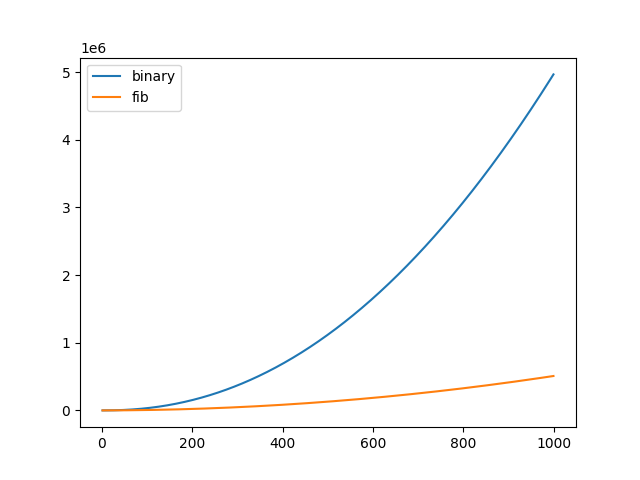
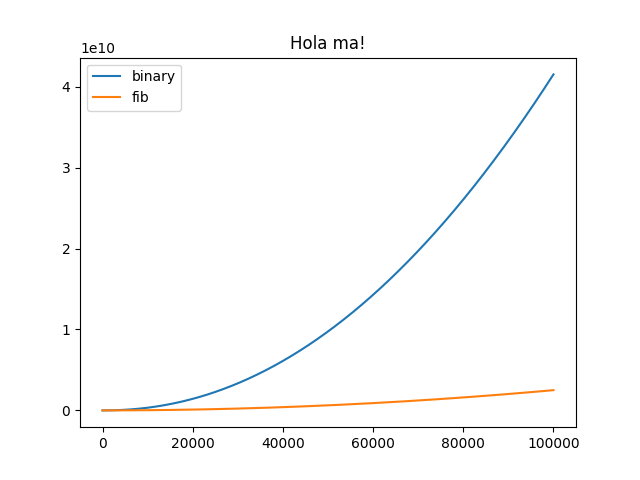
session 16/11

diff --git a/T2/test/test_fibonacci_heap.py b/T2/test/test_fibonacci_heap.py
@@ -1,0 +1,95 @@
+import unittest
+from src.priorityQueue import FibonacciHeap
+from src.trees import BinomNode
+'''
+class FibonacciHeapTestCase(unittest.TestCase):
+
+    def setUp(self):
+        self.heap = FibonacciHeap(20)
+
+    def _assert_equal_trees(self, tree_1, tree_2):
+        self._assert_equal_nodes(tree_1, tree_2)
+        for i in range(len(tree_1.children)):
+            self._assert_equal_trees(tree_1.children[i], tree_2.children[i])
+    
+    def _assert_equal_nodes(self, node_1, node_2):
+        self.assertEqual(node_1.element, node_2.element)
+        self.assertEqual(node_1.key, node_2.key)
+        self.assertEqual(node_1.degree, node_2.degree)
+    
+    def _assert_equal_heaps(self, heap_1, heap_2):
+        self.assertEqual(heap_1.queue_length, heap_2.queue_length)
+        self.assertEqual(heap_1.min_element, heap_2.min_element)
+        self.assertEqual(heap_1.min_key, heap_2.min_key)
+        self.assertEqual(heap_1.min_pos, heap_2.min_pos)
+        self.assertEqual(heap_1.current_elements, heap_2.current_elements)
+        for i in len(heap_1.queue):
+            self._assert_equal_trees(heap_1.queue[i], heap_2.queue[i])
+        for i in len(heap_1.elements_in_order):
+            self._assert_equal_nodes(heap_1.elements_in_order[i], heap_2.elements_in_order[i])
+    
+    def test_initial_conditions(self):
+        self.assertEqual(self.heap.queue, [])
+        self.assertEqual(self.heap.queue_length, 0)
+        self.assertEqual(self.heap.elements_in_order, [None] * 20)
+
+    def test_insert(self):
+        self.heap.insert(1, 5)
+        self._assert_equal_node_arrays(self.heap.tree, [BMinHeapNode(1, 5, 0)])
+        self.assertEqual(self.heap.tree[0], self.heap.elements_in_order[0])
+        self.assertEqual(self.heap.n, 1)
+        self.heap.insert(10, 3)
+        self._assert_equal_node_arrays(self.heap.tree, [BMinHeapNode(10, 3, 0), BMinHeapNode(1, 5, 1)])
+        self.assertEqual(self.heap.tree[1], self.heap.elements_in_order[0])
+        self.assertEqual(self.heap.tree[0], self.heap.elements_in_order[9])
+        self.assertEqual(self.heap.n, 2)
+        self.heap.insert(15, 7)
+        self._assert_equal_node_arrays(self.heap.tree, [BMinHeapNode(10, 3, 0), BMinHeapNode(1, 5, 1), BMinHeapNode(15, 7, 2)])
+        self.assertEqual(self.heap.tree[1], self.heap.elements_in_order[0])
+        self.assertEqual(self.heap.tree[0], self.heap.elements_in_order[9])
+        self.assertEqual(self.heap.tree[2], self.heap.elements_in_order[14])
+        self.assertEqual(self.heap.n, 3)
+        self.heap.insert(2, 4)
+        self._assert_equal_node_arrays(self.heap.tree, [BMinHeapNode(10, 3, 0), BMinHeapNode(2, 4, 1), BMinHeapNode(15, 7, 2), BMinHeapNode(1, 5, 3)])
+        self.assertEqual(self.heap.tree[1], self.heap.elements_in_order[1])
+        self.assertEqual(self.heap.tree[0], self.heap.elements_in_order[9])
+        self.assertEqual(self.heap.tree[2], self.heap.elements_in_order[14])
+        self.assertEqual(self.heap.tree[3], self.heap.elements_in_order[0])
+        self.assertEqual(self.heap.n, 4)
+    
+    def test_decrease_key(self):
+        self.heap.insert(1, 5)
+        self.heap.insert(10, 3)
+        self.heap.insert(15, 7)
+        self.heap.insert(2, 4)
+        self.heap.decrease_key(1, 2)
+        self._assert_equal_node_arrays(self.heap.tree, [BMinHeapNode(1, 2, 0), BMinHeapNode(10, 3, 1), BMinHeapNode(15, 7, 2), BMinHeapNode(2, 4, 3)])
+        self.assertEqual(self.heap.tree[0], self.heap.elements_in_order[0])
+        self.assertEqual(self.heap.n, 4)
+        self.heap.decrease_key(15, 8)
+        self._assert_equal_node_arrays(self.heap.tree, [BMinHeapNode(1, 2, 0), BMinHeapNode(10, 3, 1), BMinHeapNode(15, 7, 2), BMinHeapNode(2, 4, 3)])
+        self.assertEqual(self.heap.n, 4)
+    
+    def test_extract_min(self):
+        self.heap.insert(1, 5)
+        self.heap.insert(10, 3)
+        self.heap.insert(15, 7)
+        self.heap.insert(2, 4)
+        self.heap.decrease_key(1, 2)
+        self.heap.extract_min()
+        self._assert_equal_node_arrays(self.heap.tree, [BMinHeapNode(10, 3, 0), BMinHeapNode(2, 4, 1), BMinHeapNode(15, 7, 2)])
+        self.assertEqual(self.heap.n, 3)
+
+    def test_empty(self):
+        self.heap.insert(10, 3)
+        self.heap.insert(2, 4)
+        self.heap.insert(15, 7)
+        for _i in range(3):
+            print("value of n is: " + str(self.heap.n))
+            self.assertFalse(self.heap.empty())
+            self.heap.extract_min()
+        self.assertTrue(self.heap.empty())
+
+if __name__ == "__main__":
+    unittest.main()
+'''

diff --git a/T2/src/trees.py b/T2/src/trees.py
@@ -39,6 +39,7 @@ class BinomNode:
     def add_child(self, child):
         self.children.append(child)
         self.degree += 1
+        child.set_parent(self)
     
     def set_parent(self, new_parent):
         self.parent = new_parent
@@ -48,27 +49,30 @@ class BinomNode:
     
     def swap_with_parent(self):
         former_parent = self.parent
-        self.parent.swap_with_child(self.degree)
-        self.children[self.degree] = former_parent
-        self.degree += 1
+        aux_degree = self.degree
+        self.parent.swap_with_child(aux_degree)
+        #self.children[aux_degree] = former_parent
     
     def swap_with_child(self, child_deg):
         swap_child = self.children[child_deg]
         aux_parent = self.parent
         aux_children = self.children
-        self.set_tree_pos(swap_child, swap_child.children)
-        self.degree -= 1
-        swap_child.set_tree_pos(aux_parent, aux_children)
+        aux_degree = self.degree
+        aux_children[child_deg] = self # OJO
+        self.set_tree_pos(swap_child, swap_child.children, swap_child.degree)
+        swap_child.set_tree_pos(aux_parent, aux_children, aux_degree)
     
-    def set_tree_pos(self, new_parent, new_children):
+    def set_tree_pos(self, new_parent, new_children, new_degree):
         self.parent = new_parent
         self.children = new_children
+        self.degree = new_degree
     
     def _float_up(self):
-        while self.parent != None and self.parent.value > self.key:
+        while self.parent != None and self.parent.key > self.key:
             self.swap_with_parent()
     
     def set_value_and_relocate(self, k):
-        self.key = k
-        self._float_up()
+        if self.key > k:
+            self.key = k
+            self._float_up()
 

diff --git a/T2/src/priorityQueue.py b/T2/src/priorityQueue.py
@@ -175,13 +175,14 @@ class FibonacciHeap(PriorityQueueInterface):
             return None
         
         # extraction
-        ret_node = self.queue[self.min_pos]
-        self.queue.pop(self.min_pos)
+        ret_node = self.queue.pop(self.min_pos)
+        self.current_elements -= 1
         for child in ret_node.children:
+            child.set_parent(None)
             self.queue.append(child)
 
         # conversion to binomial forest
-        aux_queue = [None] * log2_ceil(self.current_elements)
+        aux_queue = [None] * log2_ceil(self.current_elements + 1)
         for tree in self.queue:
             transition_tree = tree
             while aux_queue[transition_tree.degree] != None:
@@ -193,7 +194,7 @@ class FibonacciHeap(PriorityQueueInterface):
         self.queue = []
         self.min_pos = -1
         self.queue_length = 0
-        for node in aux_queue:
+        for node in aux_queue: 
             if node != None:
                 self.queue.append(node)
                 self.queue_length += 1
@@ -202,15 +203,16 @@ class FibonacciHeap(PriorityQueueInterface):
                     self.min_element = node.element
                     self.min_key = node.key
 
-        self.current_elements -= 1
+        #self.current_elements -= 1
         return ret_node.element, ret_node.key
 
 
     def _fuse(self, tree_1, tree_2):
         if tree_1.key > tree_2.key:
             greater_tree = tree_2
-            tree_2.add_child(tree_1)
+            lesser_tree = tree_1
         else:
             greater_tree = tree_1
-            tree_1.add_child(tree_2)
+            lesser_tree = tree_2
+        greater_tree.add_child(lesser_tree)
         return greater_tree

diff --git a/T2/src/generator_base.py b/T2/src/generator_base.py
@@ -10,19 +10,30 @@ def add_directed_edge(graph, i, j, edge_weight):
     else:
         graph[i].update(new_edge)
 
-def add_edge(graph, i, j):
-    edge_weight = random.randint(1, 10**9)
-    add_directed_edge(graph, i, j, edge_weight)
-    add_directed_edge(graph, j, i, edge_weight)
+def add_edge(graph, i, j, weight):
+    add_directed_edge(graph, i, j, weight)
+    add_directed_edge(graph, j, i, weight)
 
 def generator(nodes, density):
     graph = {}
+    total_nodes = 0
+    nodes_out = []
     for i in range(1, nodes):
-        add_edge(graph, i, i+1)
+        edge_weight = random.randint(1, 10**9)
+        add_edge(graph, i, i+1, edge_weight)
+        nodes_out.append(' '.join([str(i), str(i+1), str(edge_weight)]))
+        total_nodes += 1
     for i in range(1, nodes-1):
         for j in range(i+2, nodes+1):
             if decision(density):
-                add_edge(graph, i, j)
+                edge_weight = random.randint(1, 10**9)
+                add_edge(graph, i, j, edge_weight)
+                nodes_out.append(' '.join([str(i), str(j), str(edge_weight)]))
+                total_nodes += 1
+    print(' '.join([str(nodes), str(total_nodes)]))
+    for i in range(total_nodes):
+        print(nodes_out[i])
+    print(random.randint(1, nodes))
     return graph
 
 

diff --git a/T2/src/dijkstra_base.py b/T2/src/dijkstra_base.py
@@ -7,13 +7,12 @@ def dijkstra(graph, start, queue):
     queue.decrease_key(start, 0)
     while not queue.empty():
         current_node, current_distance = queue.extract_min()
-        if current_distance > distances[current_node]:
-            continue
-        for neighbor, weight in graph[current_node].items():
-            distance = current_distance + weight;
-            if distances[neighbor] > distance:
-                distances[neighbor] = distance
-                queue.decrease_key(neighbor, distance)
+        if not current_distance > distances[current_node]:
+            for neighbor, weight in graph[current_node].items():
+                distance = current_distance + weight;
+                if distances[neighbor] > distance:
+                    distances[neighbor] = distance
+                    queue.decrease_key(neighbor, distance)
     return " ".join([str(n) for n in distances.values()])
 
 """

diff --git a/T2/experimentos/get_k.py b/T2/experimentos/get_k.py
@@ -1,0 +1,23 @@
+import statistics
+import time
+
+MIN = 2
+MAX = 5
+super_dict = {}
+for i in range(3):
+    current_dict = {}
+    for k in range(MIN, MAX):
+        current_dates = []
+        for t in range(k):
+            ti = time.time()
+            #executeDijkstra
+            tf = time.time()
+            dt = tf - ti
+            current_dates.append(dt)
+        current_dict[k] = {
+            'total_time': sum(current_dates),
+            'time_mean': statistics.mean(current_dates),
+            'time_std': statistics.stdev(current_dates)
+        }
+    super_dict[str(i)] = current_dict
+print(super_dict)

diff --git a/T2/experimentos/teorico.py b/T2/experimentos/teorico.py
@@ -9,13 +9,14 @@ def fib_cost(V, p):
 
 bin_cost_l = []
 fib_cost_l = []
-p = 1
-x_range = range(10000000, 100000000000)
+p = 0.5
+x_range = range(1, 100000)
 for i in x_range:
     bin_cost_l.append(bin_cost(i, p))
     fib_cost_l.append(fib_cost(i, p))
 
 plt.plot(x_range, bin_cost_l, label="binary")
 plt.plot(x_range, fib_cost_l, label="fib")
+plt.title("Hola ma!")
 plt.legend()
 plt.savefig("experimentos/visualizaciones/teorico.png")

diff --git a/T2/generator.py b/T2/generator.py
@@ -2,5 +2,3 @@ import sys
 from src.generator_base import generator
 
 generated_graph = generator(int(sys.argv[1]), float(sys.argv[2]))
-for key, value in generated_graph.items():
-    print(key, value)
